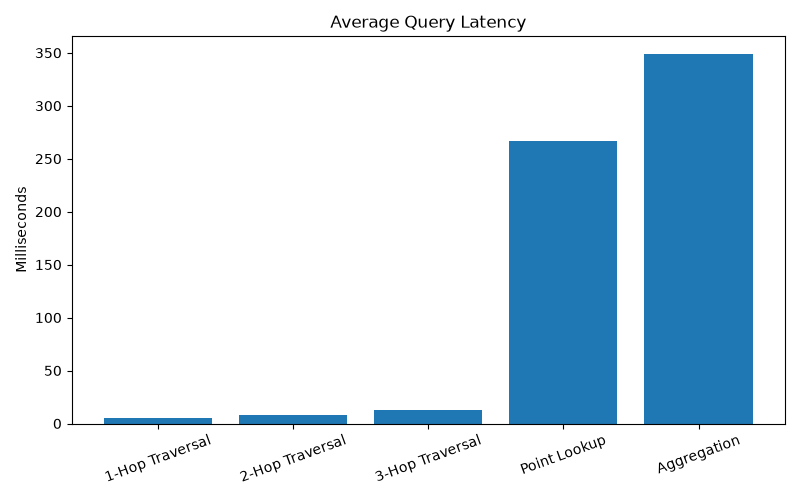
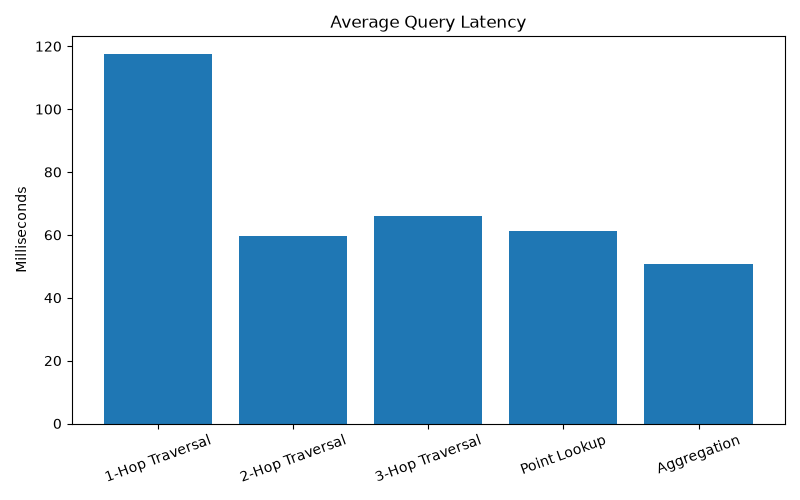
Added comparison chart generation

diff --git a/benchmark/charts.py b/benchmark/charts.py
@@ -1,20 +1,45 @@
+import os
 import pandas as pd
 import matplotlib.pyplot as plt
 
-df = pd.read_csv("results/results.csv")
+os.makedirs("charts", exist_ok=True)
 
-plt.figure(figsize=(8,5))
+# ----------------------------
+# Chart 1: Average Latency
+# ----------------------------
+results = pd.read_csv("results/results.csv")
 
-plt.bar(df["Query"], df["Average (ms)"])
-
+plt.figure(figsize=(8, 5))
+plt.bar(results["Query"], results["Average (ms)"])
 plt.title("Average Query Latency")
-
 plt.ylabel("Milliseconds")
-
 plt.xticks(rotation=20)
-
 plt.tight_layout()
-
 plt.savefig("charts/average_latency.png")
+plt.close()
 
-print("Chart created successfully.")
+# ----------------------------
+# Chart 2: Database Comparison
+# ----------------------------
+comparison = pd.read_csv("results/comparison.csv")
+
+pivot = comparison.pivot(
+    index="Query",
+    columns="Database",
+    values="Average (ms)"
+)
+
+pivot.plot(
+    kind="bar",
+    figsize=(9, 5)
+)
+
+plt.title("CognoDB vs Neo4j Aura")
+plt.ylabel("Average Latency (ms)")
+plt.xticks(rotation=20)
+plt.legend(title="Database")
+plt.tight_layout()
+plt.savefig("charts/comparison.png")
+plt.close()
+
+print("Charts created successfully.")
